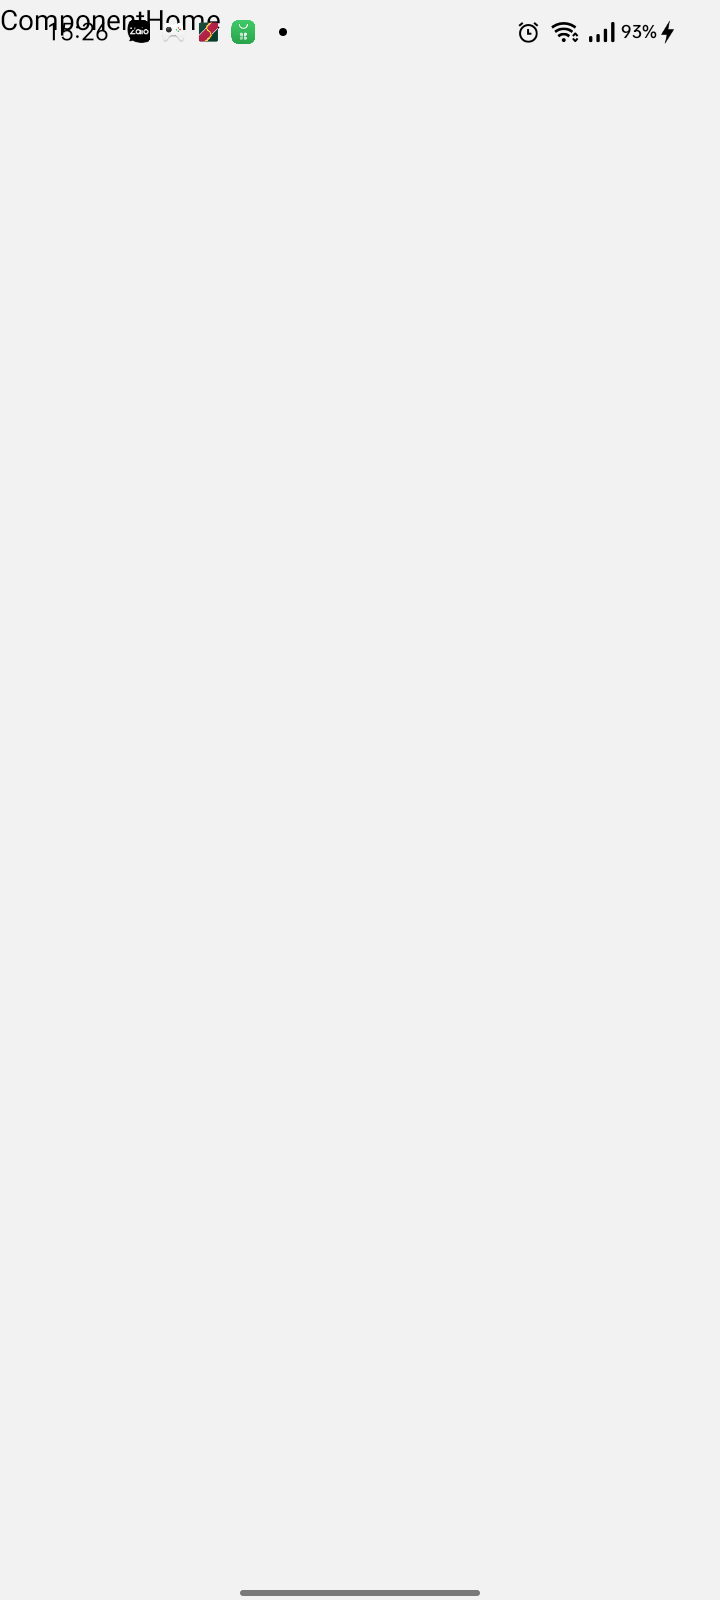
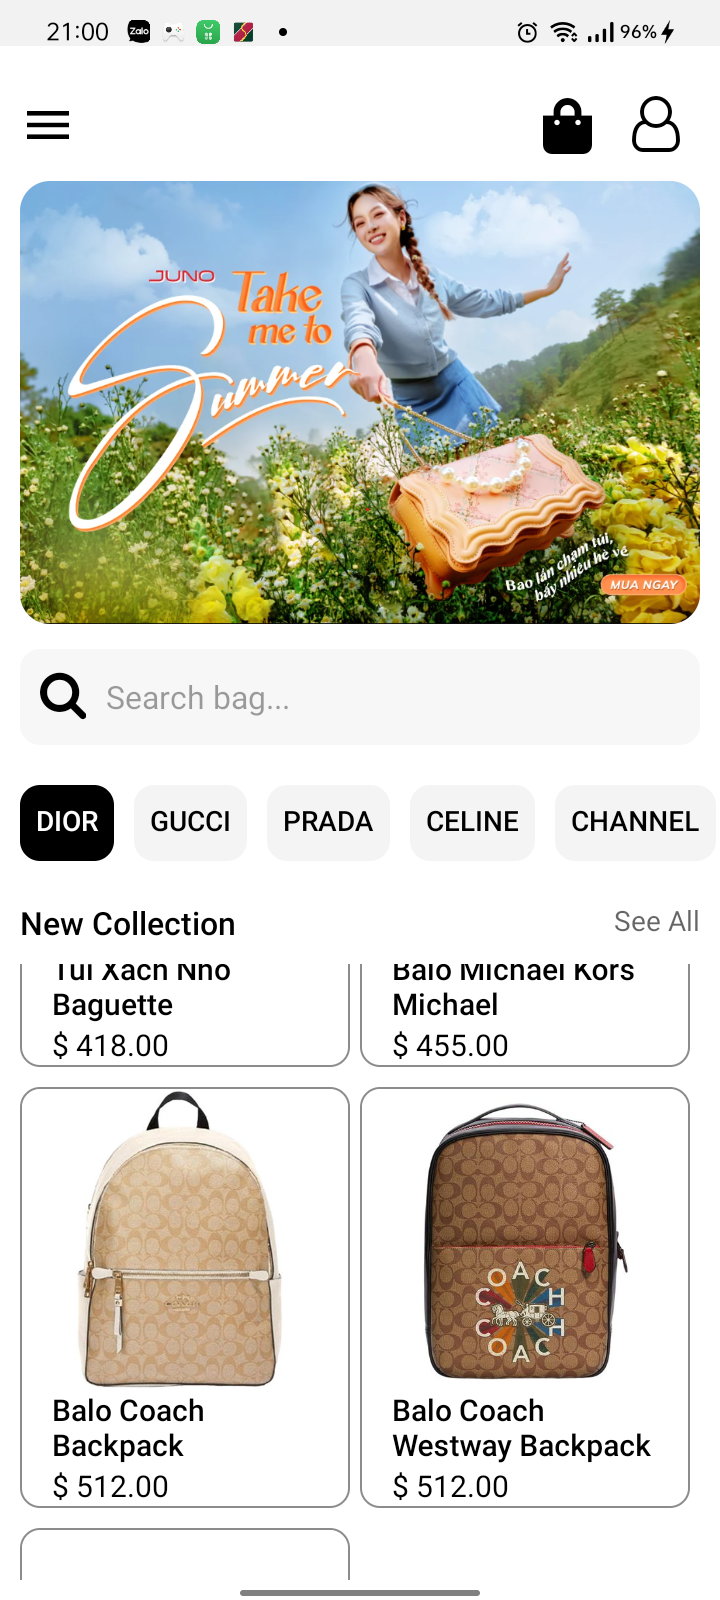
code: data bags, finish scr2(80%)

diff --git a/BagsMarketApp/src/components/ComponentHome.js b/BagsMarketApp/src/components/ComponentHome.js
@@ -1,12 +1,34 @@
-import { View, Text, Image } from 'react-native'
-import React from 'react'
+import { View, Text, Image, TextInput, StyleSheet, FlatList } from 'react-native'
+import React, { useState } from 'react'
 import styles from '../themes/styles'
 import Icon from 'react-native-vector-icons/FontAwesome'
 import Icon5 from 'react-native-vector-icons/FontAwesome5'
 import IconMaterialCommunityIcons from 'react-native-vector-icons/MaterialCommunityIcons'
 
+import datas from '../databases/database'
+
+let time = new Date();
+
 const ComponentHome = ({ navigation }) => {
-    console.log("🚀 😍 🎶 ✌ ~ file: ComponentHome.js:12 ~ ComponentHome ~ ComponentHome:", ComponentHome)
+    console.log("🚀 😍 🎶 ✌ ~ file: ComponentHome.js:12 ~ ComponentHome ~", `${time.getHours()}:${time.getMinutes()}`)
+
+    const [listBag, setListBag] = useState(datas);
+
+
+    // renderBag
+    let renderBag = ({ item }) => {
+        return (
+            <View style={[, {
+                backgroundColor: '#fff', width: 165, maxHeight: 220,
+                marginRight: 5, marginBottom: 10, 
+                borderWidth: 1, borderRadius: 10, borderColor: '#8c8c8c'
+            }]}  >
+                <Image style={[, { borderRadius: 10, width: '100%', height: 150, }]} source={item.img} />
+                <Text style={[, { fontSize: 15, fontWeight: '600', paddingHorizontal: 15, }]} >{item.name}</Text>
+                <Text style={[, { fontSize: 15, paddingHorizontal: 15, }]} >$ {item.price}.00</Text>
+            </View>
+        )
+    }
 
     return (
         <View style={[styles.flex_1, {
@@ -15,43 +37,92 @@ const ComponentHome = ({ navigation }) => {
             padding: 10,
         }]}  >
             <View style={[styles.flex_6, {
+                // backgroundColor: '#0f0'
             }]} >
                 {/* menu */}
                 <View style={[styles.row, { justifyContent: 'space-between', marginTop: 15, }]} >
                     <IconMaterialCommunityIcons name="menu" color="#000" size={28} />
-                    <View style={[styles.row ,{}]} >
-                        <Icon5 style={[ ,{paddingHorizontal: 10,}]}  name="shopping-bag" color="#000" size={28} />
+                    <View style={[styles.row, {}]} >
+                        <Icon5 style={[, { paddingHorizontal: 10, }]} name="shopping-bag" color="#000" size={28} />
 
-                        <Icon style={[ ,{paddingHorizontal: 10, }]} name="user-o" color="#000" size={28} />
+                        <Icon style={[, { paddingHorizontal: 10, }]} name="user-o" color="#000" size={28} />
 
                     </View>
                 </View>
 
                 {/* Phông quảng cáo  */}
-                <View style={[ styles.centerView, styles.flex_1, {}]} >
-                    <Image  style={[, {
-                        width: "90%", height: "80%",
+                <View style={[styles.centerView, styles.flex_1, {}]} >
+                    <Image style={[, {
+                        width: "100%", height: "90%",
                         borderRadius: 15,
-                    }]} source={require('../images/img_Home_1.png')}  />
+                    }]} source={require('../images/img_Home_1.png')} />
                 </View>
 
                 {/* Search  */}
-                
+                <View style={[styles.row, {
+                    backgroundColor: '#f7f7f7',
+                    padding: 10,
+                    marginBottom: 10,
+                    borderRadius: 10,
+                }]} >
+                    <Icon style={[, {}]} name='search' size={25} color={'#000'} />
+                    <TextInput style={[, { paddingLeft: 10, fontSize: 16 }]} placeholder='Search bag...' />
+
+                </View>
 
             </View>
             {/*  */}
 
-            <View style={[styles.flex_1, {
-                backgroundColor: '#f00'
+            <View style={[styles.flex_1, styles.row, {
+                // backgroundColor: '#f00',
+                // paddingVertical: 10,
             }]} >
-
+                {/* navbar */}
+                <Text style={[styles.navbar, styles.navbar_show, {}]}  >dior</Text>
+                <Text style={[styles.navbar, {}]}  >gucci</Text>
+                <Text style={[styles.navbar, {}]}  >Prada</Text>
+                <Text style={[styles.navbar, {}]}  >celine</Text>
+                <Text style={[styles.navbar, {}]}  >channel</Text>
             </View>
             {/*  */}
 
             <View style={[styles.flex_6, {
-                backgroundColor: '#0ff'
+                // backgroundColor: '#0ff'
             }]} >
+                <View style={[styles.row, {
+                    justifyContent: 'space-between',
+                    paddingVertical: 10,
+                }]} >
+                    <Text style={[, { fontWeight: '600', fontSize: 16 }]} >New Collection</Text>
+                    <Text style={[, { opacity: 0.6 }]} >See All</Text>
+                </View>
 
+                {/* listItem */}
+                <View style={[styles.flex_1, styles.row, {
+                    // justifyContent: 'space-between'
+                }]} >
+
+                    {/* item */}
+                    {/* <View style={[, {
+                        backgroundColor: '#fff', width: '48%', maxHeight: 220,
+                        borderWidth: 1, borderRadius: 10, borderColor: '#8c8c8c'
+                    }]}  >
+                        <Image style={[, { borderRadius: 10, width: '100%', height: 150, }]} source={item.img} />
+                        <Text style={[, { fontSize: 15, fontWeight: '600', paddingHorizontal: 15, }]} >{item.name}</Text>
+                        <Text style={[, { fontSize: 15, paddingHorizontal: 15, }]} >$ {item.price}.00</Text>
+                    </View> */}
+
+                    <FlatList
+                    // getItem={2}
+                        // horizontal={true}
+                        data={listBag}
+                        numColumns={2}
+                        keyExtractor={item => item.id}
+                        renderItem={renderBag}
+                    />
+
+
+                </View>
             </View>
 
 
@@ -63,3 +134,8 @@ const ComponentHome = ({ navigation }) => {
 export default ComponentHome;
 
 //           style={[ ,{}]}           
+
+
+const stylez = StyleSheet.create({
+
+})

diff --git a/BagsMarketApp/src/databases/database.js b/BagsMarketApp/src/databases/database.js
@@ -1,0 +1,32 @@
+export default data = [
+    {
+        id: 0,
+        name: 'Túi Xách Nhỏ Baguette',
+        img:require('../images/img_bag_1.png'),
+        price:418
+    },
+    {
+        id: 1,
+        name: 'Balo Michael Kors Michael',
+        img:require('../images/img_bag_2.png'),
+        price:455
+    },
+    {
+        id: 2,
+        name: 'Balo Coach Backpack',
+        img:require('../images/img_bag_3.png'),
+        price:512
+    },
+    {
+        id: 3,
+        name: 'Balo Coach Westway Backpack',
+        img:require('../images/img_bag_4.png'),
+        price:512
+    },
+    {
+        id: 4,
+        name: 'Ví Coach Dempsey Large',
+        img:require('../images/img_bag_5.png'),
+        price:100
+    }
+]

diff --git a/BagsMarketApp/src/themes/styles.js b/BagsMarketApp/src/themes/styles.js
@@ -33,4 +33,18 @@ export default StyleSheet.create({
         flexDirection:'column'
     },
     
+    // scr2:
+    navbar:{
+        textTransform:'uppercase',
+        padding: 8,
+        marginVertical: 10,
+        marginRight: 10,
+        backgroundColor: '#f4f4f4',
+        borderRadius: 10,
+        fontWeight: '600'
+    },
+    navbar_show:{
+        backgroundColor: '#000',
+        color: '#fff'
+    }
 })
